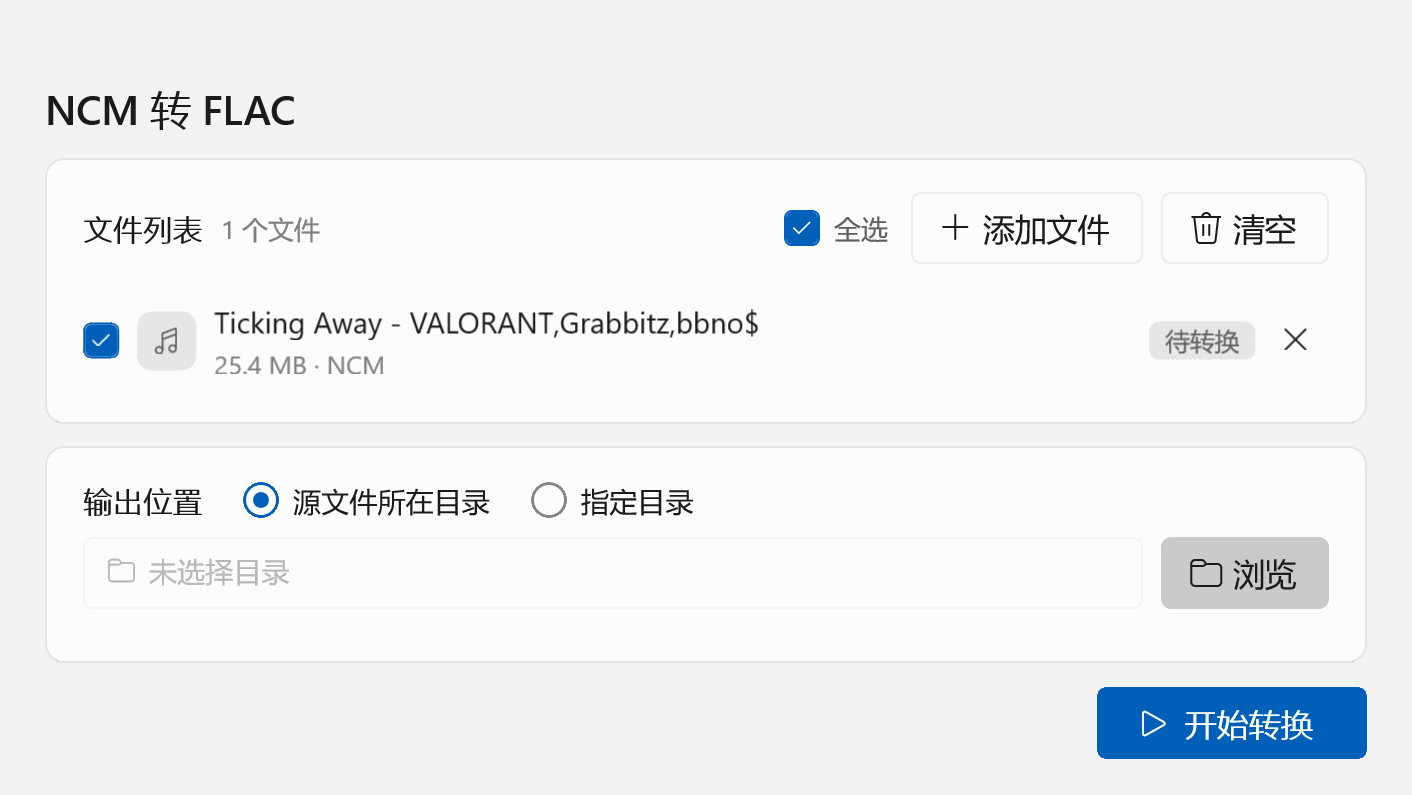
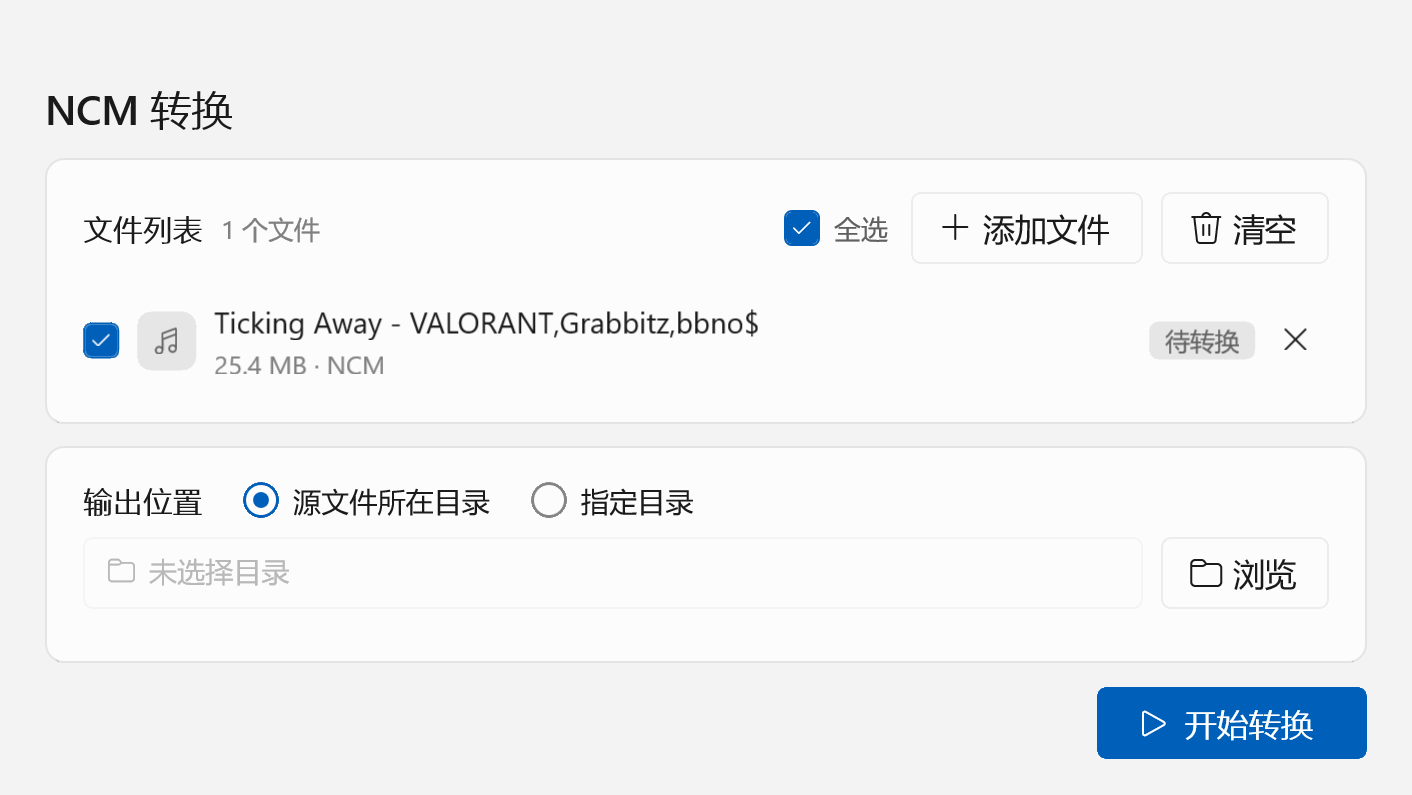
docs: describe the mp3 output and refresh the preview

Changed region(s): [[0.8102, 0.6642, 0.966, 0.7849], [0.1246, 0.1208, 0.2181, 0.1811]]

diff --git a/README.md b/README.md
@@ -1,12 +1,15 @@
-# NCM 转 FLAC
+# NCM 转换
 
-用 C++ / WinUI 3 写的小工具，把网易云音乐的 `.ncm` 加密容器还原成标准 FLAC —— **不重新编码**，
-解出来的就是原始 FLAC 码流，做到逐字节无损，同时把封面、标签和歌词一起写回文件。
+用 C++ / WinUI 3 写的小工具，把网易云音乐的 `.ncm` 加密容器还原成里面的原始码流 —— **不重新编码**：
+容器里是 FLAC 就输出逐字节无损的 FLAC，是 MP3 就原样输出 MP3（补上 ID3 标签），
+封面、标签和歌词一并写入。
 
 ![界面预览](docs/preview.png)
 
 ## 功能
 
+- **两种输出**：FLAC 码流 → `.flac`（VORBIS_COMMENT + PICTURE）；MP3 码流 → `.mp3`（ID3v2.3 + APIC），
+  扩展名由码流本身决定，不需要手动选
 - **批量转换**：把 .ncm 拖进窗口任意位置，或用「添加文件」多选；支持全选 / 逐个移除
 - **拖放提示**：文件拖到窗口上方时整窗铺一层浅蓝，中间浮出一张小卡片写着「松开即可添加」
   与本次拖进来的 .ncm 数量，鼠标指针同时变成"复制"样式
@@ -17,11 +20,11 @@
   窗口会实时重绘（包括标题栏）
 - **一键打开目录**：转换完成后直接跳到输出位置（输出分散在多个目录时跳到它们的公共上层）
 - **完整标签**：TITLE / ARTIST / ALBUM / ALBUMARTIST / TITLE_TRANSLATED / MUSIC_ID /
-  COMMENT / LYRICS / ENCODER 顺序写入 VORBIS_COMMENT
-- **封面嵌入**：把 NCM 内嵌的专辑图作为 PICTURE 块（front cover）写进 FLAC
+  COMMENT / LYRICS / ENCODER
+- **封面嵌入**：把 NCM 内嵌的专辑图作为 FLAC 的 PICTURE 块（front cover）或 MP3 的 APIC 帧
 - **歌词**：优先用 NCM 内的歌词（逐行 JSON、YRC 卡拉OK 两种格式都会转成标准 `[mm:ss.xx]` LRC），
   没有时回退到同名 `.lrc` 文件
-- **命令行模式**：`NcmToFlac.exe --convert in.ncm [out.flac]`，结果写 `<out>.log`，便于批处理与回归测试
+- **命令行模式**：`NcmConverter.exe --convert in.ncm [out]`，结果写 `<输出>.log`，便于批处理与回归测试
 
 ## 环境要求
 
@@ -42,7 +45,7 @@ powershell -ExecutionPolicy Bypass -File tools\fetch-packages.ps1
 powershell -ExecutionPolicy Bypass -File build.ps1 -Configuration Release
 ```
 
-产物：`bin\x64\Release\NcmToFlac.exe`，同目录带上 Windows App SDK 运行库 DLL，可整体拷走使用。
+产物：`bin\x64\Release\NcmConverter.exe`，同目录带上 Windows App SDK 运行库 DLL，可整体拷走使用。
 
 > 没有走 `msbuild -t:Restore`：Build Tools 里不带 NuGet.targets，所以由
 > `tools\fetch-packages.ps1` 按 nuspec 递归抓包、解压到标准 NuGet 目录，
@@ -51,7 +54,7 @@ powershell -ExecutionPolicy Bypass -File build.ps1 -Configuration Release
 
 ## 使用
 
-1. 运行 `NcmToFlac.exe`
+1. 运行 `NcmConverter.exe`
 2. 把 `.ncm` 文件拖进窗口，或点「添加文件」多选
 3. 选输出位置（默认写回各文件自己的源目录，可改为统一目录）
 4. 点「开始转换」，状态胶囊从「待转换」变成「完成」
@@ -62,7 +65,7 @@ powershell -ExecutionPolicy Bypass -File build.ps1 -Configuration Release
 
 `.ncm` 是网易云音乐加过密的容器，内部本来就存着完整的 FLAC / MP3 码流，解密即可，不需要转码：
 
-1. 文件头 `CTENFDAM` + 2 字节，随后是 `uint32` 的密钥长度与 `uint32` 的图片占位字段
+1. 文件头 `CTENFDAM` + 2 字节，随后是 `uint32` 的密钥长度
 2. **音频密钥**：密文逐字节 XOR `0x64` → AES-128-ECB 解密 → **去掉 PKCS#7 填充** →
    去掉 `neteasecloudmusic` 前缀，剩下 98 字节作为音频解密种子。
    最常见的坑就是忘了去填充：种子多出十几个字节，解出来的音频全是噪声
@@ -71,11 +74,14 @@ powershell -ExecutionPolicy Bypass -File build.ps1 -Configuration Release
 4. 跳过 CRC32 / 版本号 / 封面长度字段，读封面图（JPEG / PNG / WebP / GIF），音频从封面之后开始
 5. **音频**：用种子做 KSA 生成 256 字节置换盒，再按 RC4 变体逐字节异或。
    注意这里**解密时不能交换置换盒**（与标准 RC4 不同），否则前 4 个字节还能对上，从第 5 个字节起全错
-6. 得到的 `fLaC` 码流即可直接使用
+6. 解密结果以 `fLaC` 开头就是 FLAC，以 `ID3` 或 `0xFFEx` 帧同步开头就是 MP3；两者都不像就报不支持
 
-写文件时保留原始 `STREAMINFO`（含 PCM MD5），丢掉源文件自带的其他标签块，重新生成
+写 FLAC 时保留原始 `STREAMINFO`（含 PCM MD5），丢掉源文件自带的其他标签块，重新生成
 `VORBIS_COMMENT` 与 `PICTURE`，再接上原始音频帧 —— 帧 CRC 与 PCM MD5 前后一致，
 可以证明全程没有重编码。
+
+MP3 则剥掉容器里原有的 ID3v2 与结尾的 ID3v1，写一份新的 ID3v2.3（文本帧一律 UTF-16 + BOM），
+音频帧原样拷贝 —— 解码 PCM 与源 MP3 逐字节相同。
 
 ## 校验
 
@@ -83,10 +89,14 @@ powershell -ExecutionPolicy Bypass -File build.ps1 -Configuration Release
 
 | 检查项 | 结果 |
 | --- | --- |
-| 输出 FLAC 大小 | 26,630,476 字节 |
+| 输出 FLAC 大小 | 26,630,479 字节（`ENCODER` 字符串长度变化时会浮动几个字节，音频字节不受影响） |
 | 解码 PCM MD5 | `9ce663edd3b08a683d0c2cd2602028ac`，与 `STREAMINFO` 记录一致 |
 | 帧 CRC | 逐帧复核通过 |
 | 完整解码 | 全程无错误 |
+
+MP3 分支用一个"外壳按格式自造、内部塞真实 MP3"的合成容器验证：输出 `.mp3` 的
+解码 PCM MD5 与源 MP3 相同，`ffmpeg` 能读出 title / artist / album / TIT3(译名) /
+comment / USLT(歌词) / APIC(封面)。
 
 ## 代码结构
 
@@ -95,10 +105,11 @@ powershell -ExecutionPolicy Bypass -File build.ps1 -Configuration Release
 | `src/core/aes.*` | BCrypt 的 AES-128-ECB（只解密，PKCS#7 由调用方剥离） |
 | `src/core/base64.*` | Base64 解码（容忍换行与 URL-safe 变体） |
 | `src/core/json.*` | 最小 JSON 解析器 |
-| `src/core/ncm.*` | 容器解包：密钥、元数据、封面、音频解密 |
+| `src/core/ncm.*` | 容器解包：密钥、元数据、封面、音频解密、码流类型识别 |
 | `src/core/flac.*` | 解析 `STREAMINFO`、重写元数据块、读取封面尺寸 |
+| `src/core/id3.*` | MP3 帧头探测 + ID3v2.3 标签写出 |
 | `src/core/lyrics.*` | LRC / YRC / JSON 歌词统一成标准 LRC |
-| `src/core/convert.*` | 单文件转换编排（进度回调、覆盖策略、错误文案） |
+| `src/core/convert.*` | 单文件转换编排（码流决定输出格式、进度回调、覆盖策略、错误文案） |
 | `src/MainWindow.*` | WinUI 3 界面（纯 C++ 构建，无 XAML、无代码生成） |
 | `src/App.cpp` | 启动、命令行模式与两个开发钩子 |
 | `tools/fetch-packages.ps1` | 递归下载 Windows App SDK 依赖包 |
@@ -139,6 +150,9 @@ for TargetType 'Microsoft.UI.Xaml.Controls.ProgressBar' in assembly 'Unknown'.
 `winrt::init_apartment` 只做 `CoInitializeEx`，而 `RegisterDragDrop` 要求先
 `OleInitialize`，否则返回 `0x8007000E`（E_OUTOFMEMORY），拖放静默失效。
 
+ID3v2.3 的文本帧要求 UTF-16 带 BOM，COMM / USLT 里的"空描述"也必须带 BOM —— 少了这两个字节，
+`ffmpeg` 会报 `Incorrect BOM value` 并整帧跳过。
+
 主题跟随走系统事件：启动时由 `UISettings` 判断浅色还是深色并生成调色板，之后
 `ActualThemeChanged` 触发重绘（逐控件重映射画刷，不重建界面）；自绘控件另有
 `Repaint()` 一起换色。强调色不取系统强调色——它经常是棕色或橙色，和这里的图标、
@@ -149,9 +163,9 @@ for TargetType 'Microsoft.UI.Xaml.Controls.ProgressBar' in assembly 'Unknown'.
 
 | 命令 | 用途 |
 | --- | --- |
-| `NcmToFlac.exe --convert in.ncm [out.flac]` | 无界面转换，结果写 `<out>.log` |
-| `NcmToFlac.exe --ui-snapshot <目录> [文件...]` | 渲染窗口到 `ui.png` + 视觉树 `ui-tree.txt` 后退出 |
-| `NcmToFlac.exe --ui-run <目录> [文件...]` | 同上，但先跑一次完整转换，验证界面链路 |
+| `NcmConverter.exe --convert in.ncm [out]` | 无界面转换，结果写 `<输出>.log`（`format=` 行说明识别成 FLAC 还是 MP3） |
+| `NcmConverter.exe --ui-snapshot <目录> [文件...]` | 渲染窗口到 `ui.png` + 视觉树 `ui-tree.txt` 后退出 |
+| `NcmConverter.exe --ui-run <目录> [文件...]` | 同上，但先跑一次完整转换，验证界面链路 |
 | 环境变量 `NCM_SNAPSHOT_DROP=2` | 截图时强制显示拖放提示（否则那张浮层只在真实拖拽时出现） |
 
 ## 许可
